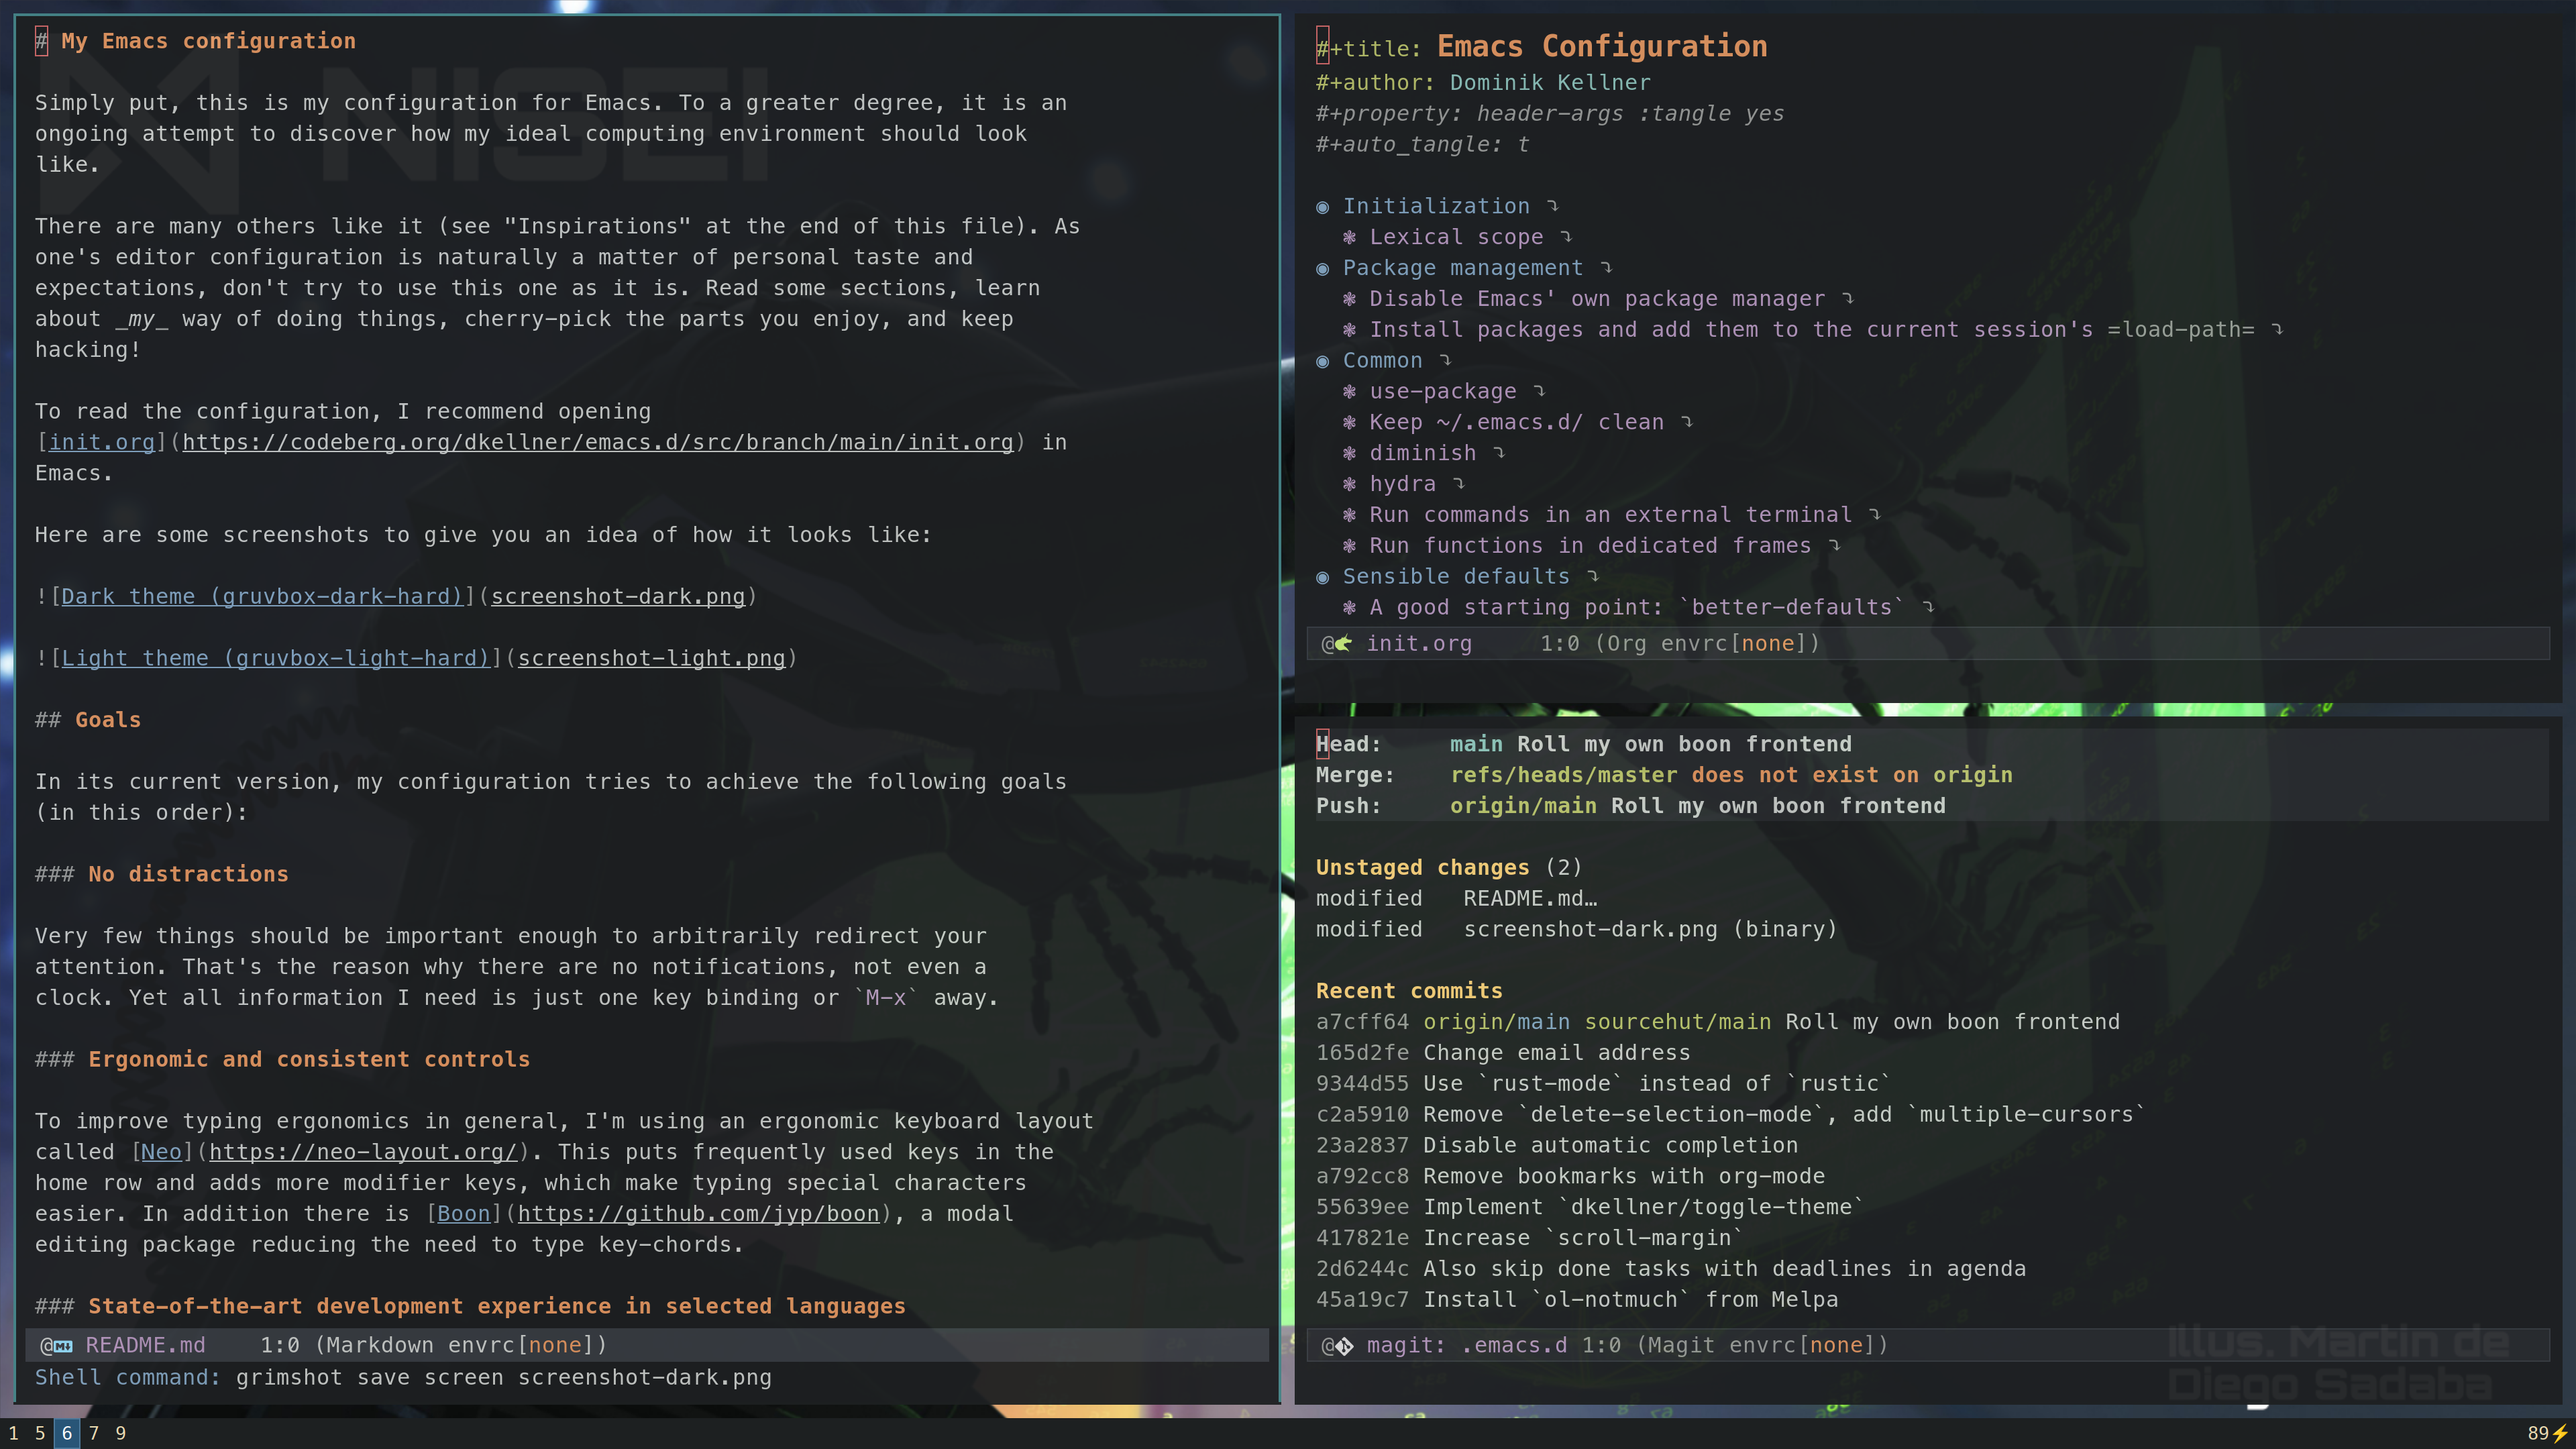
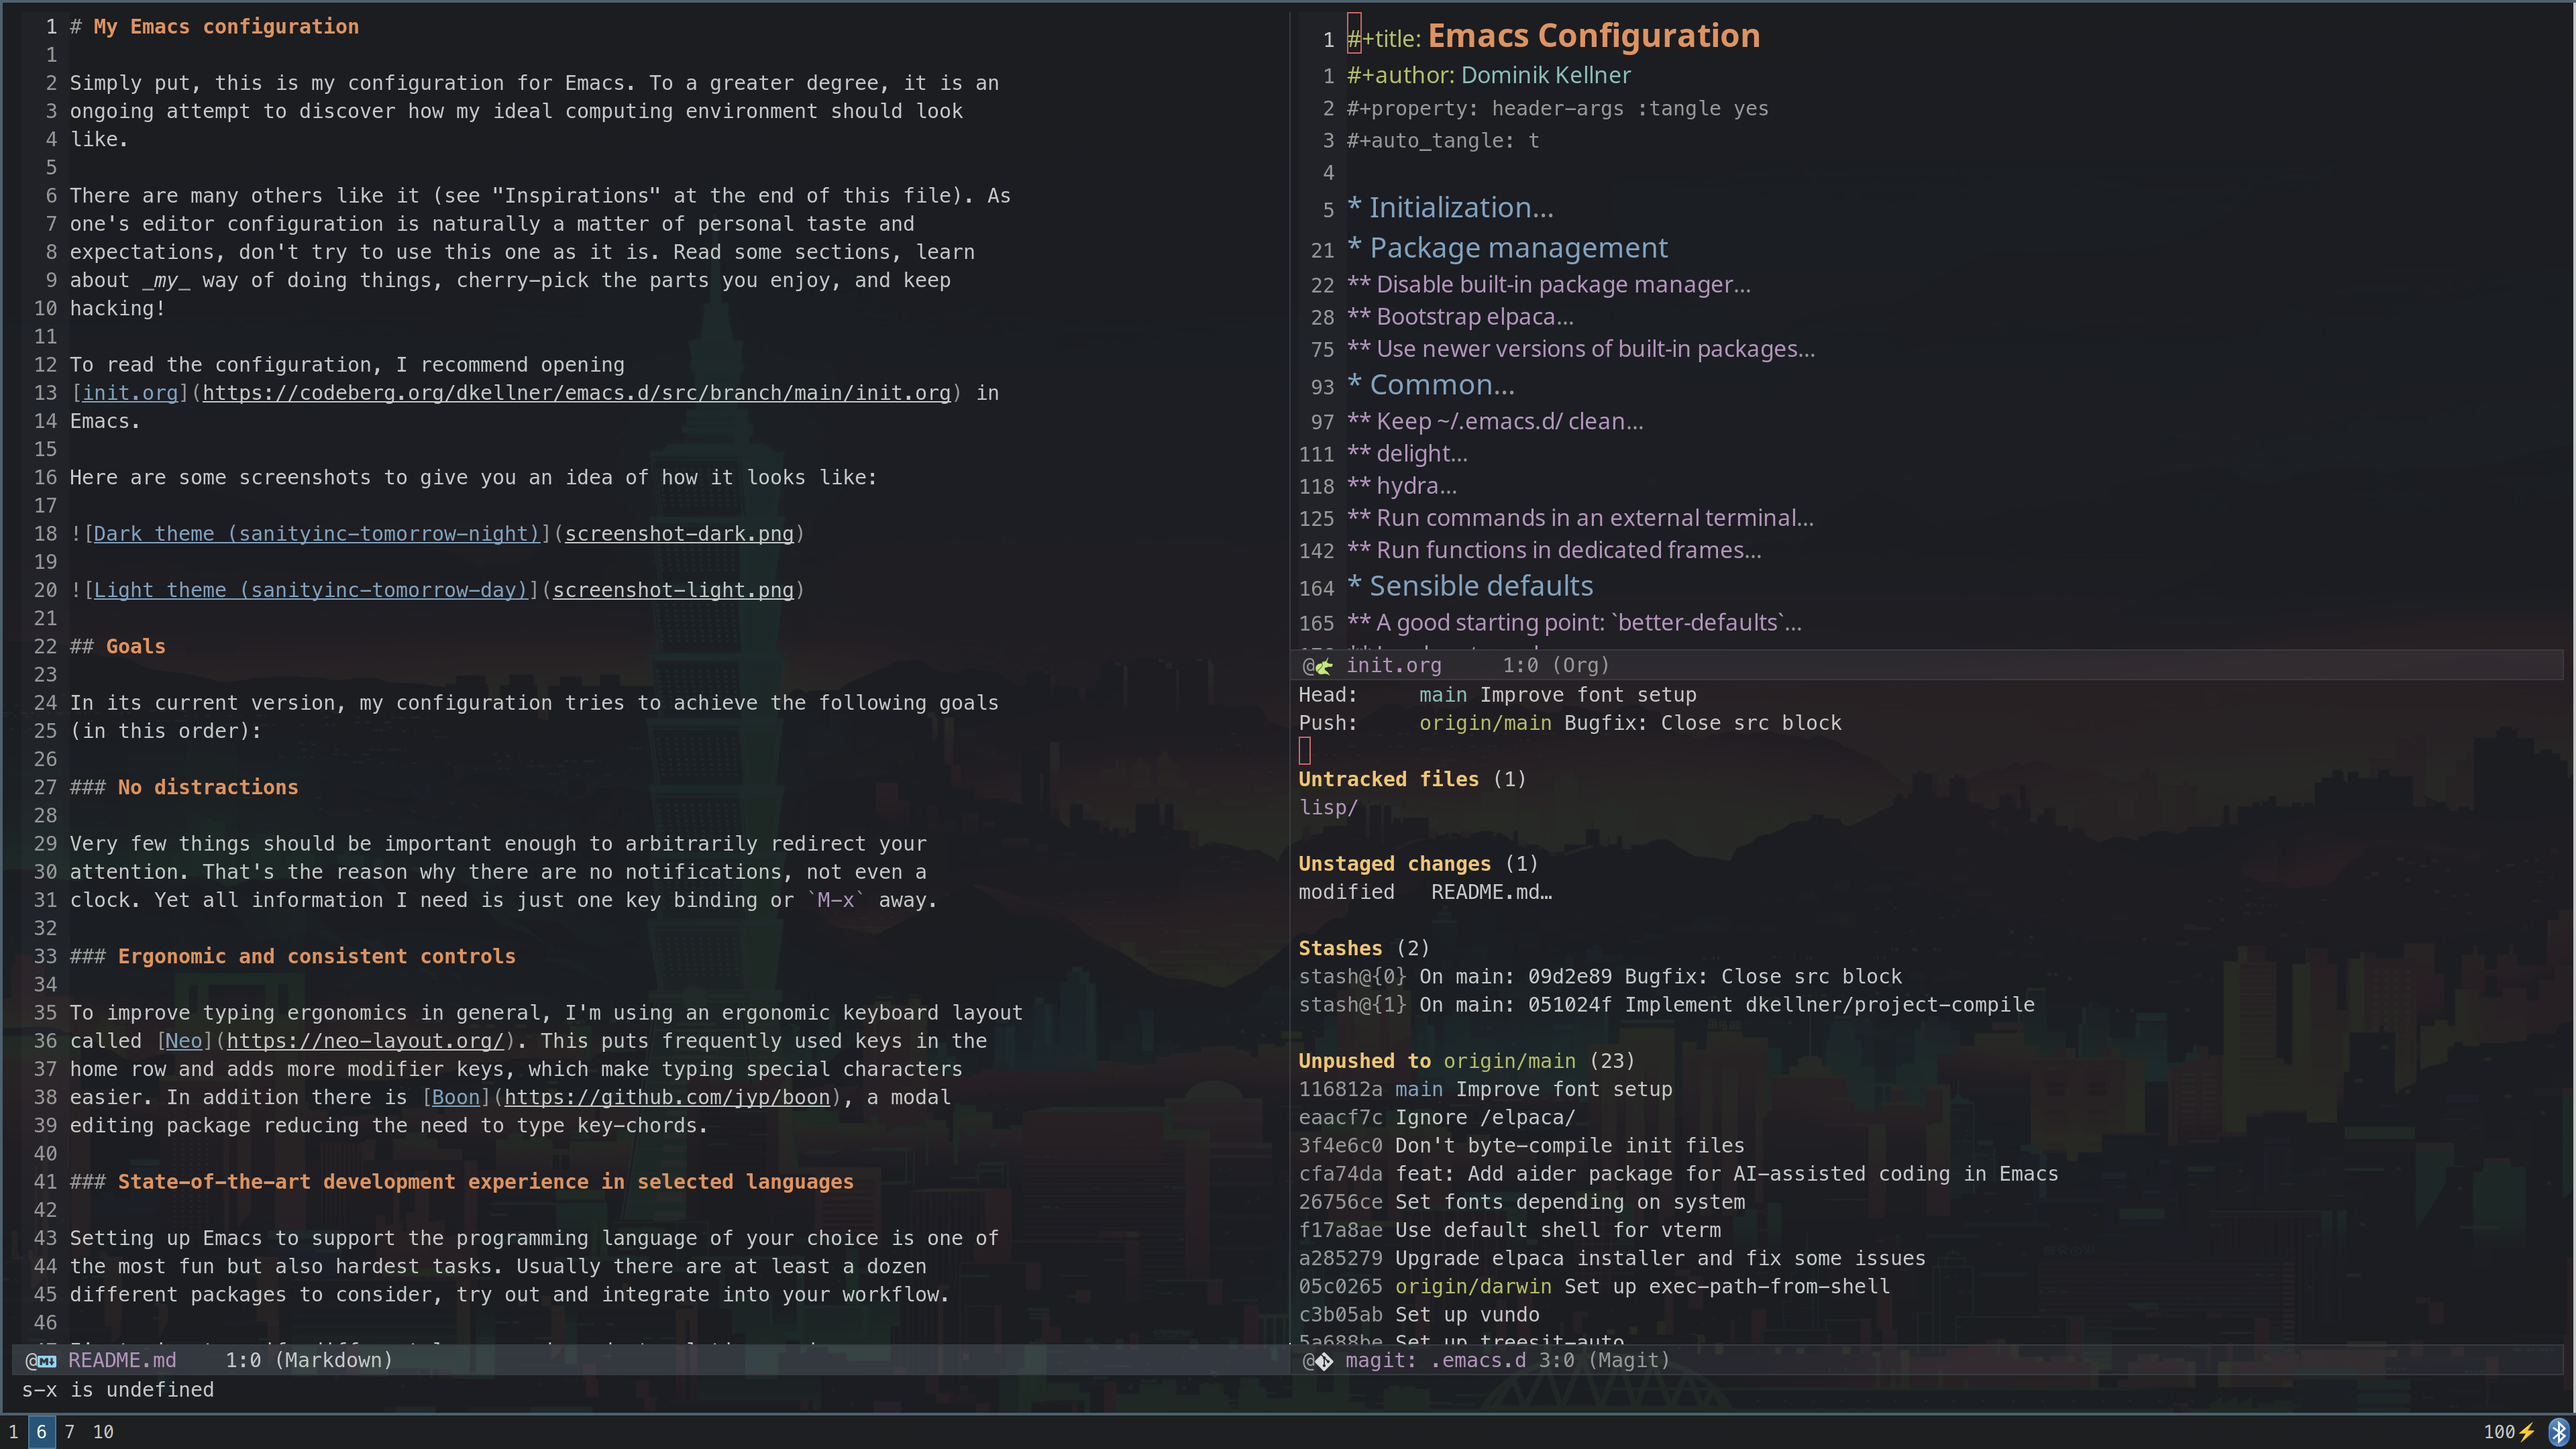
Update README and screenshots

diff --git a/README.md b/README.md
@@ -46,8 +46,8 @@ the most fun but also hardest tasks. Usually there are at least a dozen
 different packages to consider, try out and integrate into your workflow.
 
 I'm trying to unify different language-dependent solutions using
-[Nix](https://nixos.org/nix/), [direnv](https://direnv.net/) and LSP. For
-Python and Rust this works reasonably well.
+[direnv](https://direnv.net/), LSP and Tree-Sitter. For Python and Rust this
+works reasonably well.
 
 ## Inspirations
 
